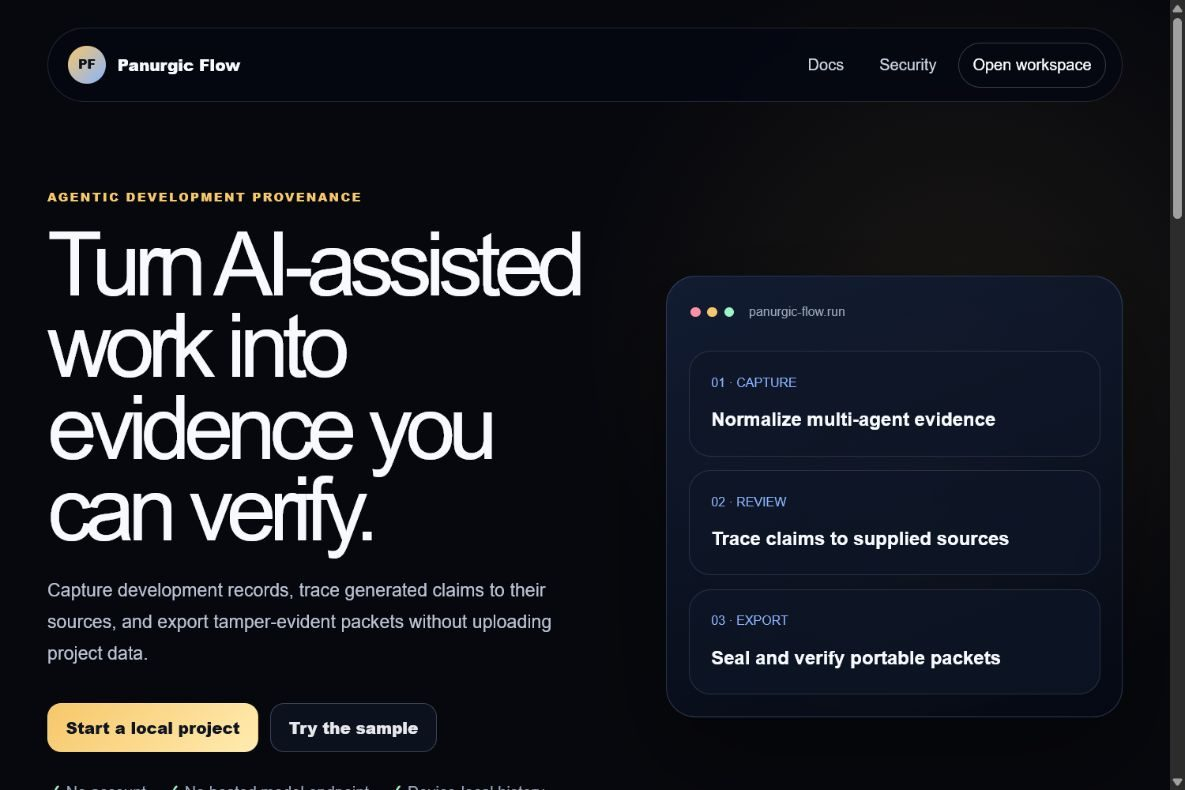
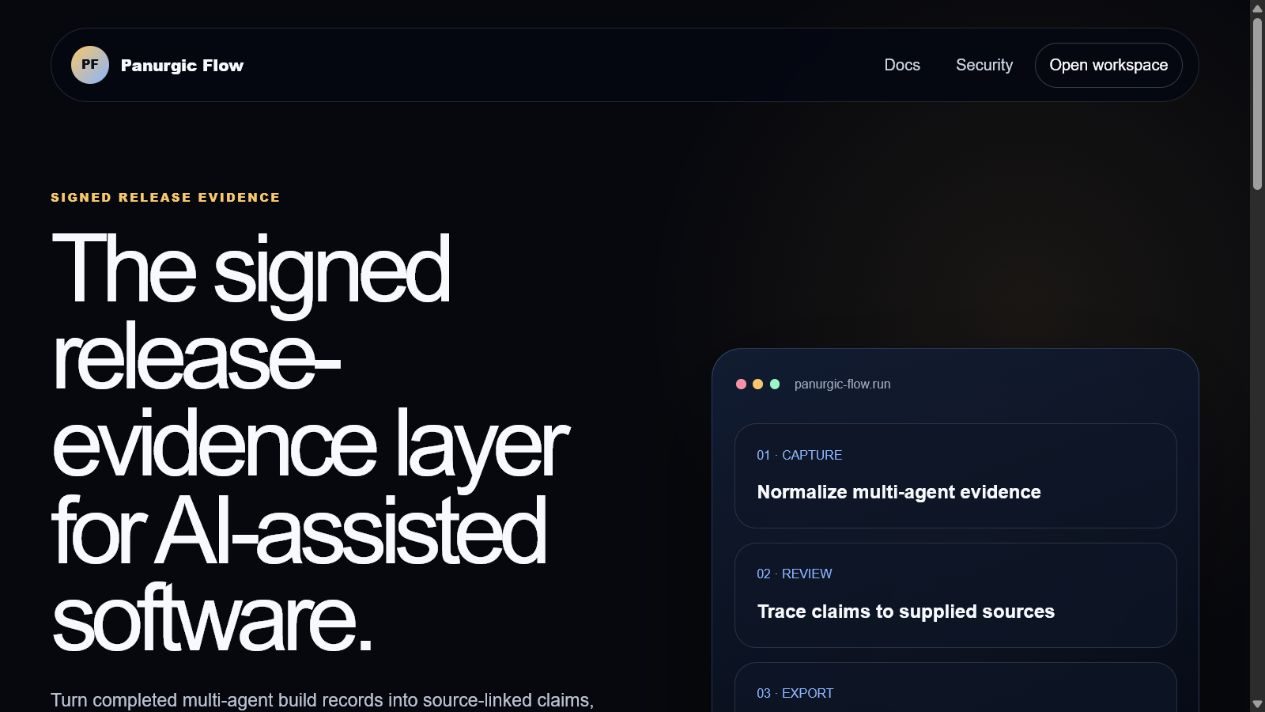
Position Panurgic Flow as signed release evidence

diff --git a/app/_components/panurgic-workspace.tsx b/app/_components/panurgic-workspace.tsx
@@ -508,11 +508,12 @@ export function PanurgicWorkspace() {
 
         <div className="hero-grid">
           <div className="hero-copy">
-            <p className="eyebrow">Agentic development provenance</p>
-            <h1>Turn AI-assisted work into evidence you can verify.</h1>
+            <p className="eyebrow">Signed release evidence</p>
+            <h1>The signed release-evidence layer for AI-assisted software.</h1>
             <p className="hero-lede">
-              Capture development records, trace generated claims to their sources,
-              and export digitally signed packets without uploading project data.
+              Turn completed multi-agent build records into source-linked claims,
+              four reusable delivery artifacts, and cryptographically verifiable
+              release packets without uploading project data.
             </p>
             <div className="hero-actions">
               <a className="primary-action" href="#workspace">Start a local project</a>
@@ -524,6 +525,7 @@ export function PanurgicWorkspace() {
               <li>No account</li>
               <li>No hosted model endpoint</li>
               <li>Device-local history</li>
+              <li>Independent packet verification</li>
             </ul>
           </div>
 

diff --git a/app/layout.tsx b/app/layout.tsx
@@ -15,7 +15,7 @@ const geistMono = Geist_Mono({
 
 const title = "Panurgic Flow";
 const description =
-  "Turn AI-assisted development records into source-linked claims, verifiable artifacts, and digitally signed packets without uploading project data.";
+  "The signed release-evidence layer for AI-assisted software: source-linked claims, reusable artifacts, and locally verifiable packets.";
 
 export async function generateMetadata(): Promise<Metadata> {
   const requestHeaders = await headers();
@@ -65,7 +65,7 @@ export async function generateMetadata(): Promise<Metadata> {
           url: "/og.png",
           width: 1200,
           height: 630,
-          alt: "Panurgic Flow turns AI-assisted work into verifiable evidence.",
+          alt: "Panurgic Flow turns AI-assisted build records into source-linked claims and signed release evidence.",
         },
       ],
     },

diff --git a/README.md b/README.md
@@ -1,10 +1,21 @@
 # Panurgic Flow
 
-Panurgic Flow turns AI-assisted development records into source-linked claims, reusable workflow artifacts, and digitally signed evidence packets.
+**Panurgic Flow is the signed release-evidence layer for AI-assisted software.** It turns completed multi-agent build records into source-linked claims, four reusable delivery artifacts, and cryptographically verifiable release packets.
 
 - **Product:** [codex-flight-recorder.seemoreas0-0.chatgpt.site](https://codex-flight-recorder.seemoreas0-0.chatgpt.site)
 - **Source:** [seemorecodez/panurgic-flow](https://github.com/seemorecodez/panurgic-flow)
+- **Published demonstration:** [YouTube - Panurgic Flow (2:46)](https://www.youtube.com/watch?v=r3e1KMz23B0)
 - **License:** MIT
+
+## Its own category: signed release evidence
+
+Most developer tools either control agents while they work or display activity afterward. Panurgic Flow begins at the missing release step. It converts completed work into a portable record whose claims remain source-linked, whose artifacts remain reusable, and whose packet integrity and signer-key continuity can be checked after transfer.
+
+It proves packet bytes and key control without pretending that cryptography proves semantic truth. Human review, exact source evidence, an independently compared signer fingerprint, reproducible tests, and repository provenance remain separate and visible parts of the trust decision.
+
+![Panurgic Flow Signature valid state with ECDSA signer fingerprint and content SHA-256](docs/proof-verified.jpg)
+
+The screenshot is a real browser-local signed packet. Tampered signed packets are classified as `modified` by the same import path; adversarial digest, signature, and signer-fingerprint cases are covered by `tests/panurgic-core.test.mjs`.
 
 ## Product workflow
 
@@ -30,6 +41,12 @@ Codex was the primary implementation partner for the product architecture, inter
 The optional trusted companion pins `gpt-5.6-sol` through `@openai/codex-sdk`. It converts a bounded forge request into structured `PanurgicPacketV1` output while using a read-only sandbox, denying approvals, and disabling network access and web search. The hosted website does not run this model or expose a credential.
 
 The human entrant selected the product problem and Developer Tools audience, named Panurgic Flow, established the local/public trust boundary, chose the evidence and artifact model, and remains responsible for reviewing every final claim. A valid signature proves private-key control and unchanged packet bytes. It does not prove that the underlying evidence is true, and the displayed fingerprint identifies a person only when it is compared through an independent trusted channel.
+
+### Recorded build effort
+
+- **Recorded Codex execution:** at least **7.4 hours** across 32 completed turns in the primary task as of the July 21 pre-submission audit.
+- **Elapsed build window:** **69.5 hours** from primary-task creation to that audit.
+- **Measurement boundary:** human planning, review, recording, upload time, and the still-running final turn are not instrumented, so they are not fabricated or added to the active-hours figure.
 
 ## PanurgicPacketV1
 

diff --git a/docs/submission/DEVPOST_SUBMISSION.md b/docs/submission/DEVPOST_SUBMISSION.md
@@ -4,7 +4,7 @@
 
 ## Tagline
 
-Turn multi-agent coding evidence into source-linked claims, signed proof, and a reusable workflow skill.
+Turn AI-assisted build records into source-linked claims, reusable artifacts, and signed release evidence.
 
 ## Category
 
@@ -14,7 +14,7 @@ Developer Tools
 
 ### Inspiration
 
-When I build with AI coding tools, the finished code usually survives, but the evidence behind it does not. Decisions are buried in chat, generated summaries lose their sources, and another person cannot easily tell what was verified. I built Panurgic Flow to preserve that record without forcing developers to install a git hook, upload private project material, or trust a hidden scoring system.
+When I build with AI coding tools, the finished code usually survives, but the evidence behind it does not. Decisions are buried in chat, generated summaries lose their sources, and another person cannot easily tell what was verified. I built Panurgic Flow as the **signed release-evidence layer for AI-assisted software**: the missing final step between completed agent work and a release record another person can inspect. It preserves that record without forcing developers to install a git hook, upload private project material, or trust a hidden scoring system.
 
 ### What I built
 
@@ -29,6 +29,8 @@ The repository also publishes a machine-readable release-claims artifact. A lock
 ### Codex and GPT-5.6
 
 Codex was my primary implementation partner for the architecture, interface refactor, deterministic contract, tests, accessibility checks, security hardening, documentation, and deployment preparation. I chose the product problem, Developer Tools audience, Panurgic Flow name, local/public trust boundary, evidence policy, artifact set, and the final claims that can be shared.
+
+As of the July 21 pre-submission audit, the primary Codex task records at least **7.4 hours of completed Codex execution across 32 turns** within a **69.5-hour elapsed build window**. Human planning, review, recording, and upload time are not instrumented, so I have not invented or added them to the active-hours figure.
 
 The optional trusted companion uses `@openai/codex-sdk` with `gpt-5.6-sol`. It accepts a bounded forge request and returns structured `PanurgicPacketV1` output under a read-only sandbox with approvals denied and network access and web search disabled. Its child environment is reduced through an allowlist and its working directory is an isolated temporary directory. The public website does not run the model, expose an API key, or provide a hosted generation endpoint.
 
@@ -65,6 +67,8 @@ Optional GPT-5.6 Codex path:
 - Channel: https://www.youtube.com/@Panurgic-Flow
 - Runtime: 2:46
 - Narration source: `C:\Users\frank\OneDrive\Documents\Panurgic Flow YouTube Package\NARRATION.md`
+- Replacement required: **No.** The positioning clarifies the shipped workflow, and the new proof screenshot documents the final cryptographic verification state without contradicting the published video.
+- Product image to add: `docs/proof-verified.jpg` (real `Signature valid` state with the ECDSA signer fingerprint and content SHA-256)
 
 ## Final links
 

diff --git a/docs/submission/SUBMISSION_CHECKLIST.md b/docs/submission/SUBMISSION_CHECKLIST.md
@@ -34,6 +34,8 @@ Submission deadline: **July 21, 2026 at 5:00 PM Pacific Time / 8:00 PM Eastern T
 - [x] Video shows that the public browser workflow works without account, key, or quota.
 - [x] Video uses original product captures, generated narration, and no unauthorized music.
 - [x] Video is public on YouTube and the direct watch link is verified.
+- [x] Existing 2:46 video remains valid; no replacement upload is required for the positioning and proof-image update.
+- [x] Cryptographic proof screenshot generated at `docs/proof-verified.jpg`; manually add it to the Devpost project gallery.
 
 ## Required Devpost fields
 
